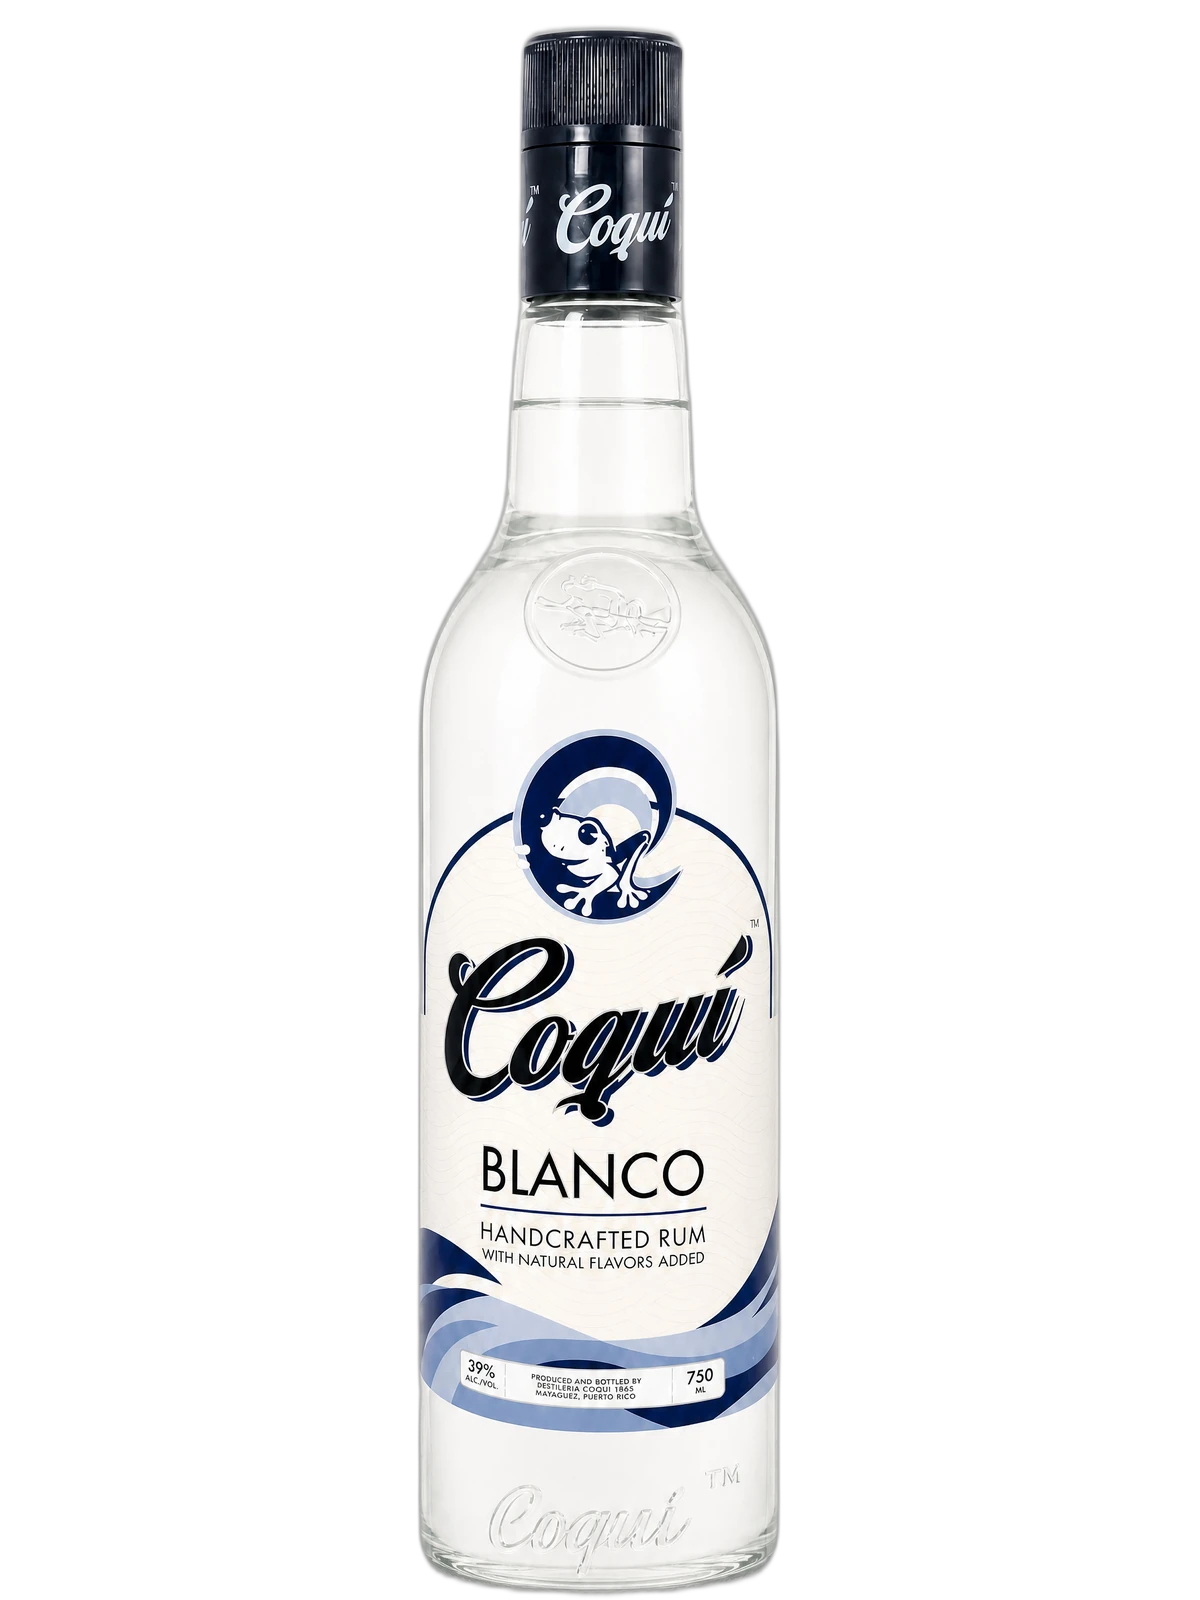
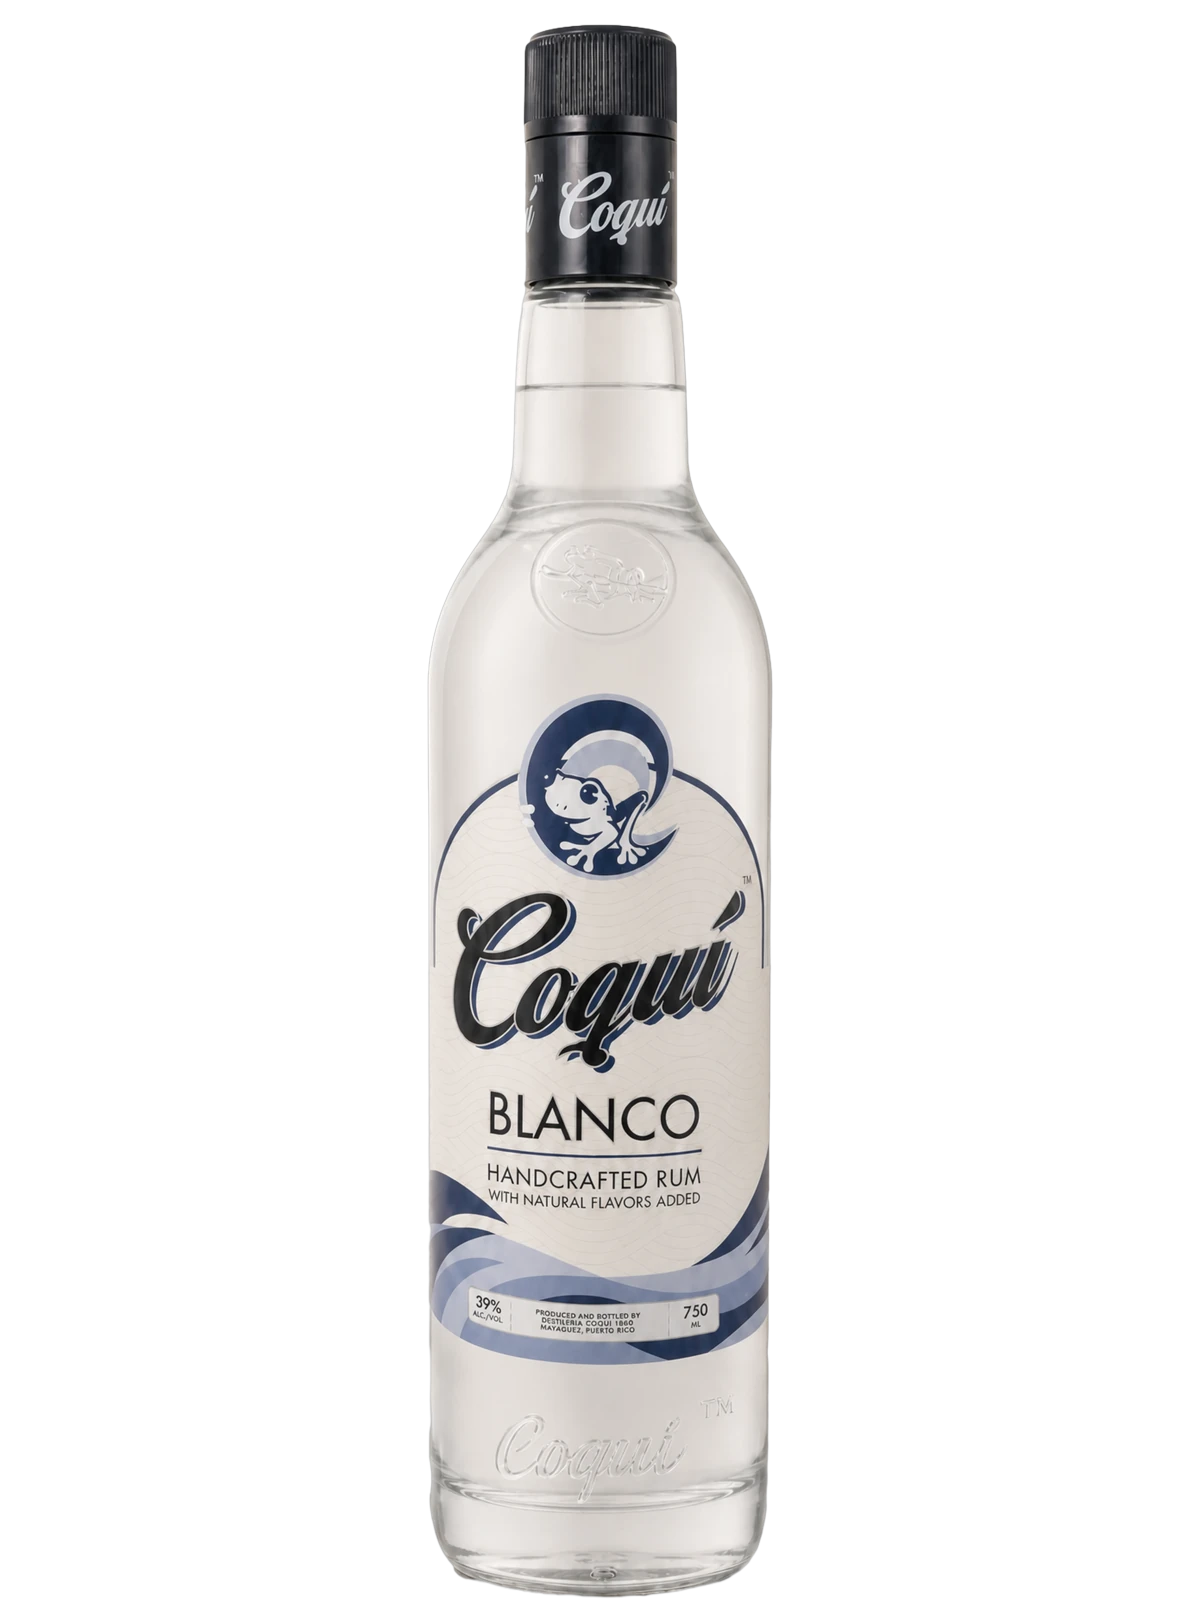
Ron Blanco: point references to v3 and use clear-glass cutout
Follow-up to the rename commit: update ron.html, catalog.js and producto.html
to reference ron-blanco-store-v3.webp (the previous commit renamed the asset
but left the references on the deleted v2), and set the v3 image to the final
clear-glass transparent bottle.

Changed region(s): [[0.3392, 0.0, 0.6783, 1.0]]

diff --git a/producto.html b/producto.html
@@ -797,7 +797,7 @@
     const PRODUCTS = {
       'ron-blanco': {
         name: 'Ron Coquí™ Blanco', type: 'White Rum', abv: '39% ABV', price: '$13', style: 'Smooth & Clean',
-        img: 'img/ron-blanco-store-v2.webp',
+        img: 'img/ron-blanco-store-v3.webp',
         desc: 'Our flagship white rum, distilled from pure Puerto Rican sugarcane and crafted for everyday enjoyment. Crisp, clean, and endlessly versatile. The base of countless island cocktails and a staple in Puerto Rican homes.',
         notes: [{ label:'Sugarcane', pct:90 },{ label:'Light Citrus', pct:72 },{ label:'Vanilla', pct:65 },{ label:'Floral', pct:58 },{ label:'Clean Finish', pct:84 }]
       },

diff --git a/ron.html b/ron.html
@@ -236,7 +236,7 @@
 
         <a href="/producto?id=ron-blanco" class="prod-card reveal" data-product="ron-blanco">
           <div class="prod-img-wrap">
-            <img decoding="async" class="prod-img" src="img/ron-blanco-store-v2.webp" alt="Ron Coqu&#xED;&#x2122; Blanco" loading="lazy">
+            <img decoding="async" class="prod-img" src="img/ron-blanco-store-v3.webp" alt="Ron Coqu&#xED;&#x2122; Blanco" loading="lazy">
             <div class="prod-overlay">
               <p class="prod-overlay-name">Ron Coqu&#xED;&#x2122; Blanco</p>
               <p class="prod-overlay-teaser">Puerto Rico's everyday rum. Clean, smooth, unmistakably island.</p>

diff --git a/js/catalog.js b/js/catalog.js
@@ -4,7 +4,7 @@
   else root.COQUI_CATALOG = catalog;
 })(typeof globalThis !== 'undefined' ? globalThis : this, function () {
   return {
-    'ron-blanco': { name: 'Ron Coquí Blanco', price: 13, image: 'img/ron-blanco-store-v2.webp' },
+    'ron-blanco': { name: 'Ron Coquí Blanco', price: 13, image: 'img/ron-blanco-store-v3.webp' },
     'ron-limon': { name: 'Ron Coquí Limón', price: 14, image: 'img/ron-limon-store.webp' },
     'pitorro-blanco': { name: 'Pitorro® Blanco', price: 19, image: 'img/pitorro-blanco-store.webp' },
     'pitorro-coco-35': { name: 'Pitorro® de Coco 35%', price: 25, image: 'img/pitorro-coco-35-store-v2.webp' },
